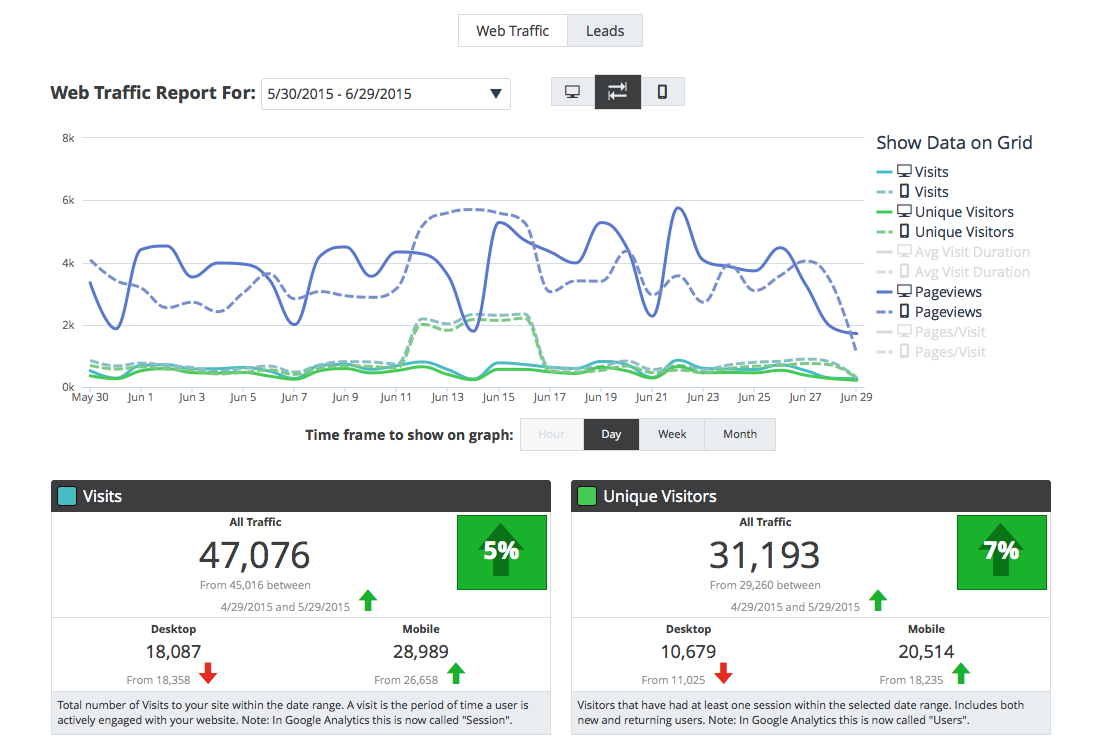
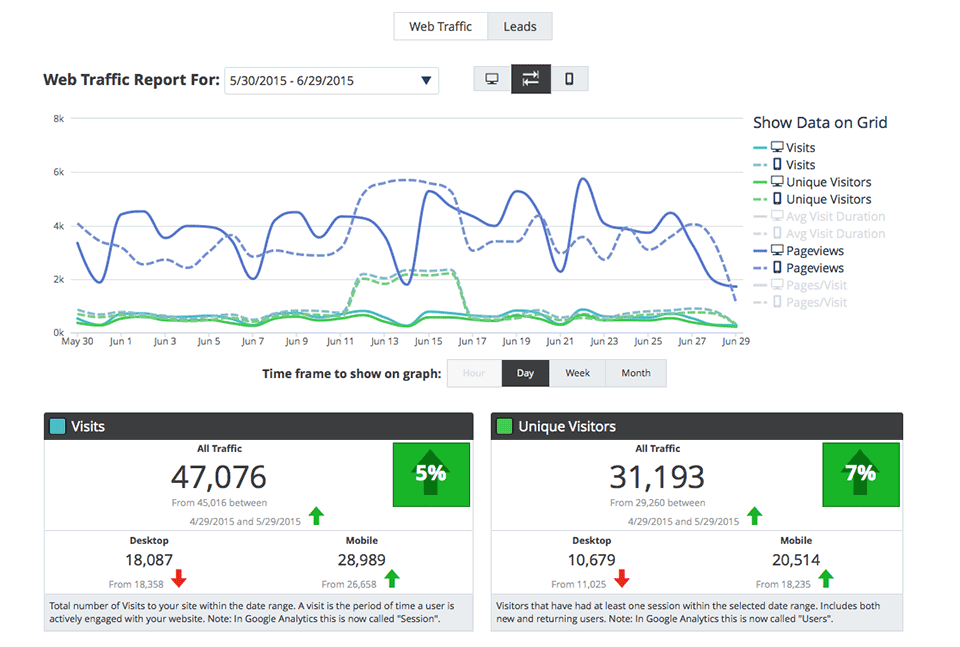
optimized images

diff --git a/dev/css/style.css b/dev/css/style.css
@@ -1393,6 +1393,13 @@ html.remodal-is-locked {
   .content {
     width: 92%;
     margin: auto; }
+  .start-page {
+    background: url("/images/backgrounds/orangeSparksClose_sml.jpg");
+    background-repeat: no-repeat;
+    background-attachment: fixed;
+    -o-background-size: inherit;
+    -moz-background-size: inherit;
+    -webkit-background-size: inherit; }
   .start-page .content {
     width: 90%;
     height: 100%; }
